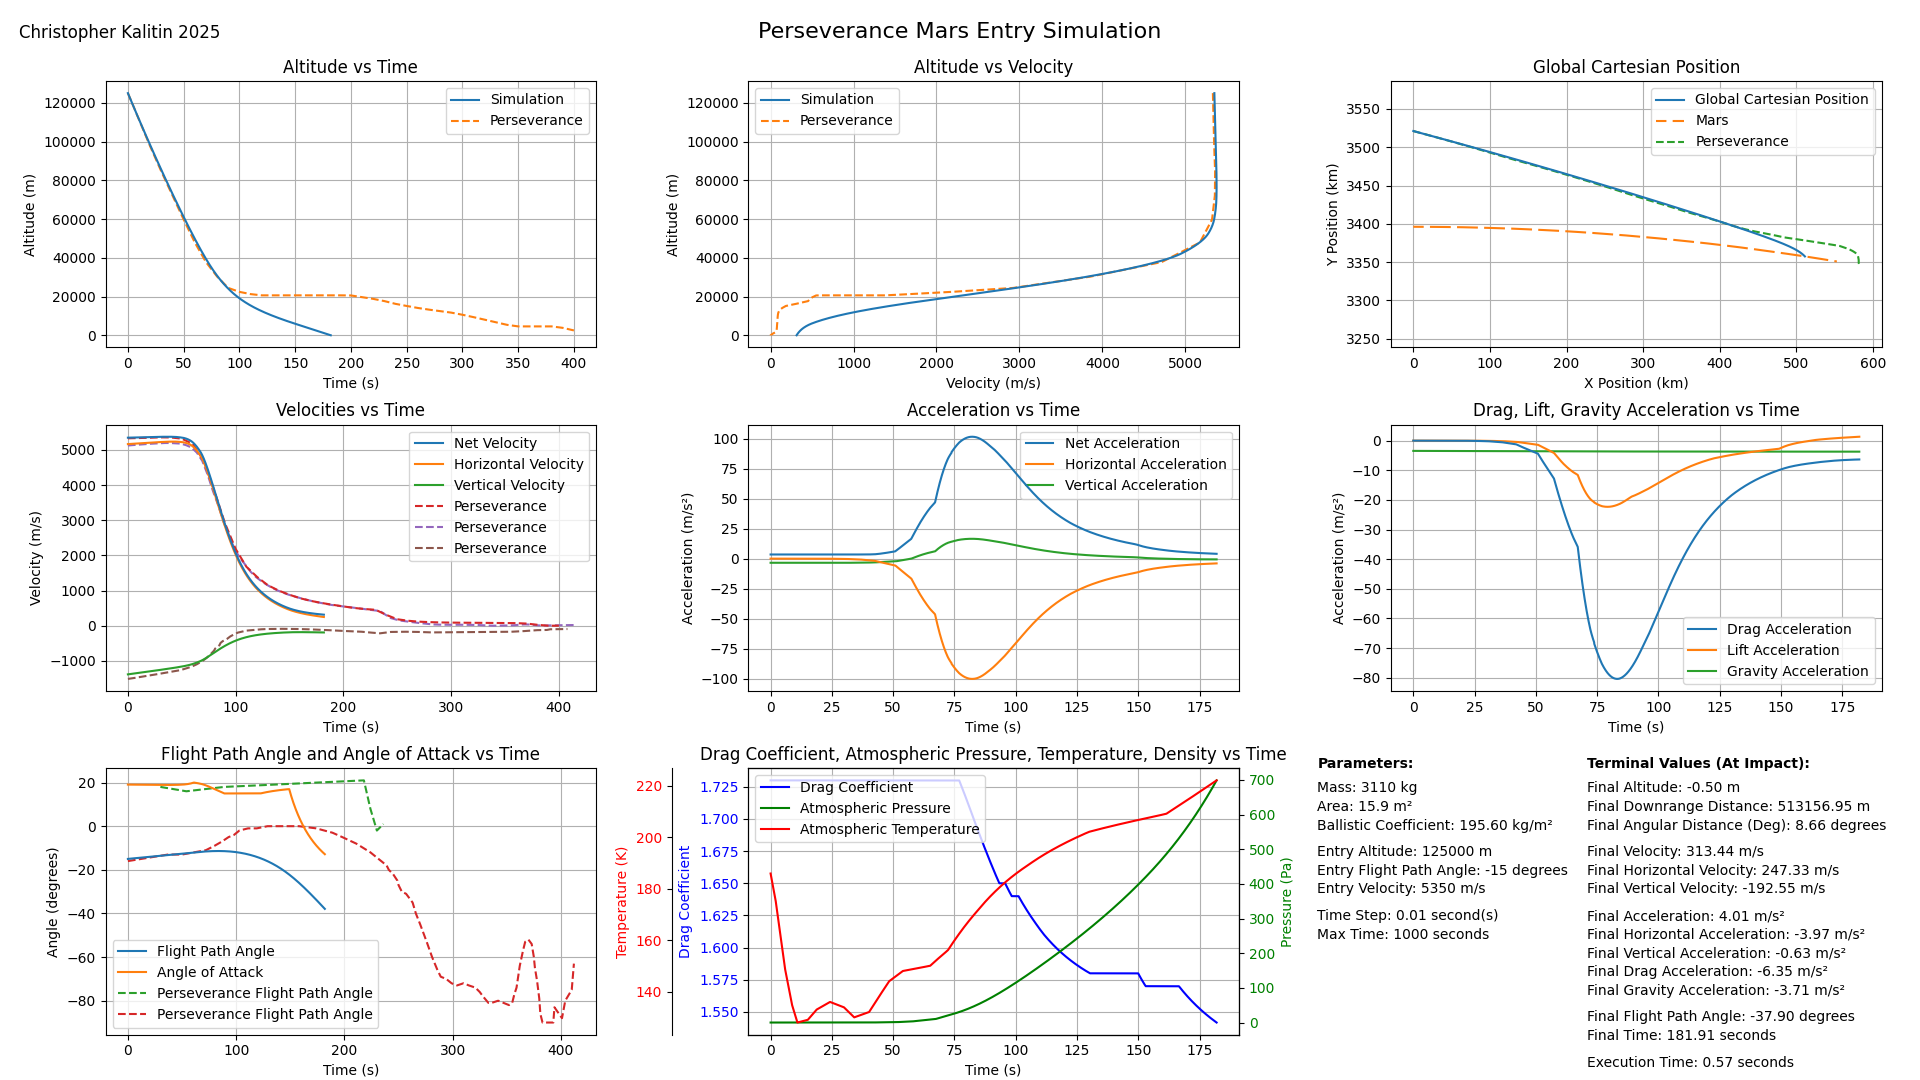
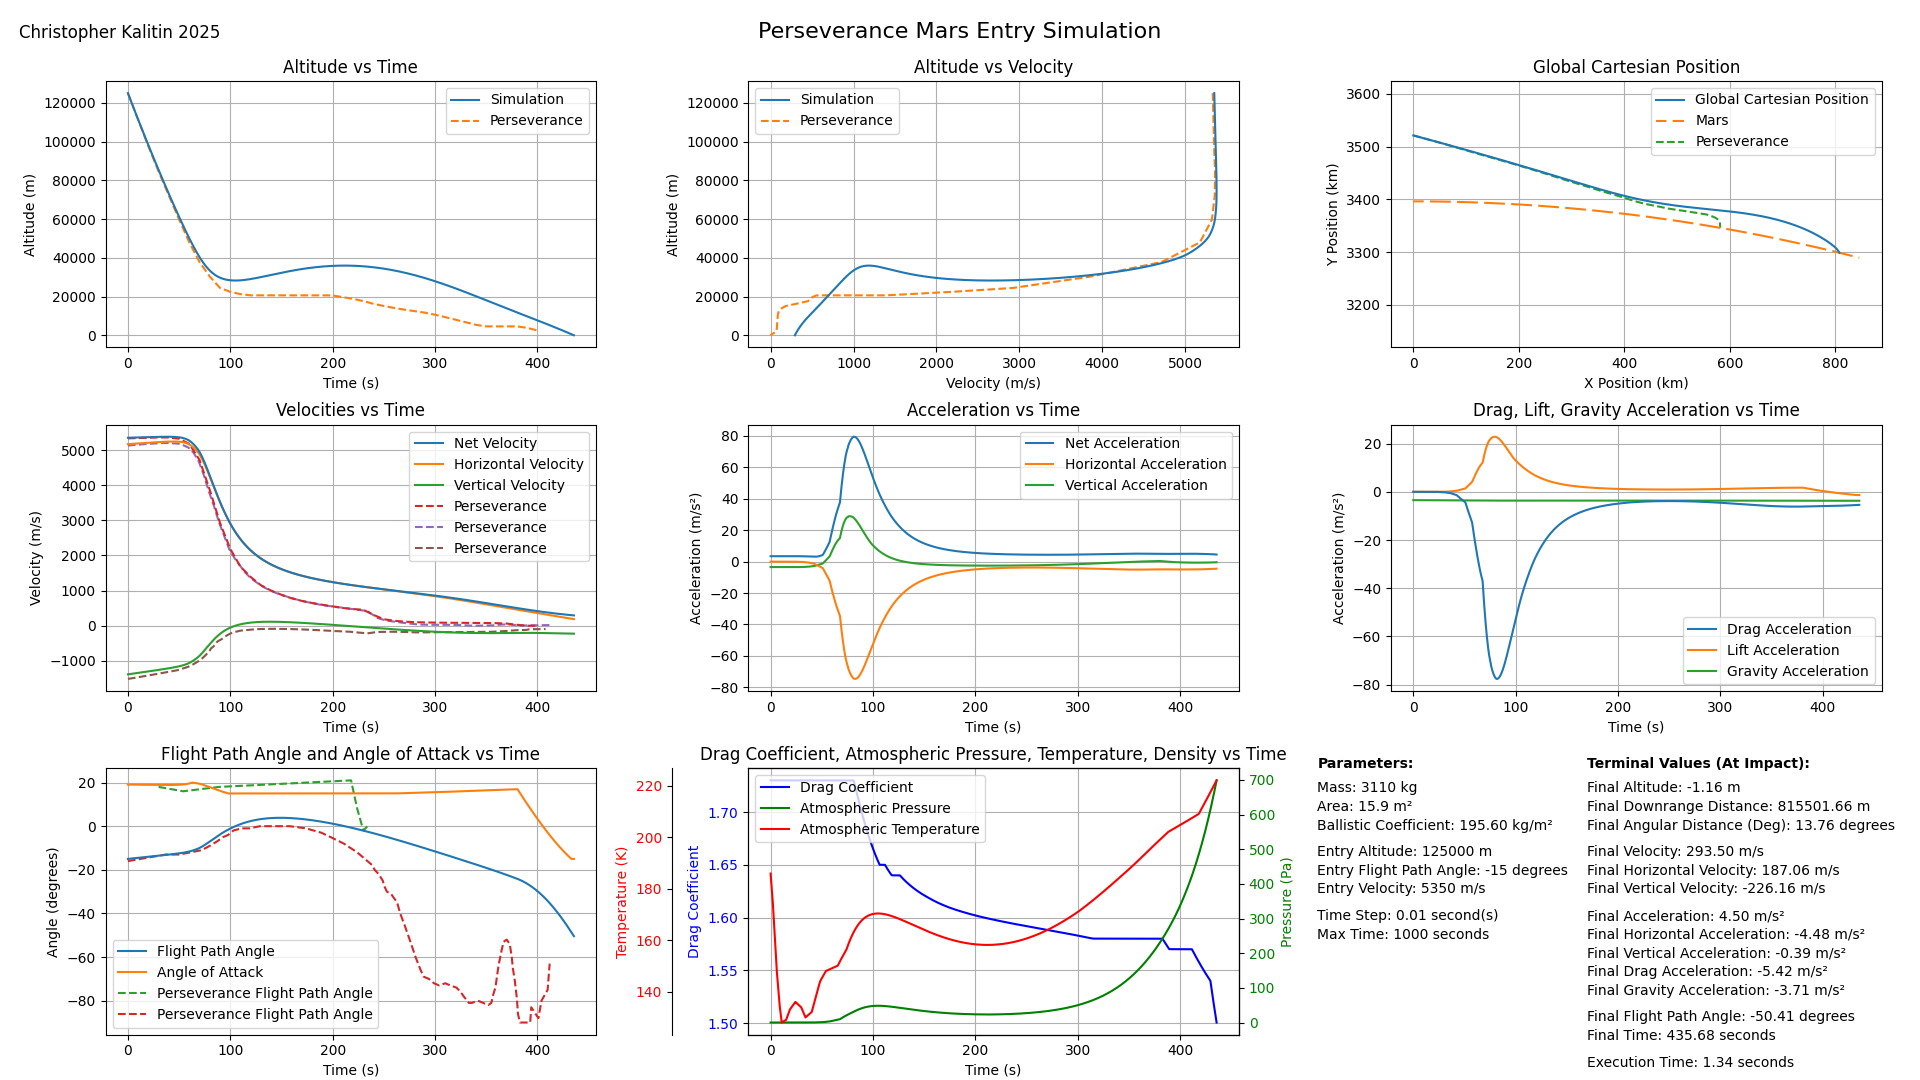
Forgot to make lift orthogonal to flight path angle
am retard

its always the little things!!

Also, lift being positive is right, it's in the positive direction, remember that the sign of acceleration is not relative to the sign of velocity, retard!!! I found one!!!

diff --git a/Project/sim_polar.py b/Project/sim_polar.py
@@ -99,8 +99,8 @@ def simulate(mass, area, entry_altitude, entry_flight_path_angle, entry_velocity
         a_lift = utils_sim.get_lift_acc(a_drag, aoa)
 
         # Update velocities
-        a_rad = a_grav + math.sin(math.radians(flight_path_angle)) * a_drag + math.sin(math.radians(flight_path_angle)) * a_lift
-        a_ang = math.cos(math.radians(flight_path_angle)) * a_drag + math.cos(math.radians(flight_path_angle)) * a_lift
+        a_rad = a_grav + math.sin(math.radians(flight_path_angle)) * a_drag + math.sin(math.radians(flight_path_angle + 90)) * a_lift
+        a_ang = math.cos(math.radians(flight_path_angle)) * a_drag + math.cos(math.radians(flight_path_angle + 90)) * a_lift
         a_net = math.sqrt(a_rad**2 + a_ang**2)
         
         vel_rad_m += a_rad * time_step

diff --git a/Project/historic_landers.py b/Project/historic_landers.py
@@ -175,11 +175,11 @@ alt_vs_downrange_to_global_cartesian(perseverance)
 # Velocity vs. AoA, interpolated
 curiosity_aoa = [
     (6000, 0),
-    (5600, 12),
-    (4800, 12),
-    (3000, 12),
-    (1200, 17),
-    (500, 10),
+    (5600, 0),
+    (4800, 20),
+    (3000, 25),
+    (1200, 25),
+    (500, 20),
     (0, -15)
 ]
 
@@ -187,7 +187,7 @@ curiosity_data, curiosity_params = sim_polar.simulate(
     mass=3300,
     area=15.9,
     entry_altitude=125000,
-    entry_flight_path_angle=-14, # Reality: -14
+    entry_flight_path_angle=-16, # Reality: -14
     entry_velocity=5700,
     aoa_function=curiosity_aoa,
     time_step=0.01,

diff --git a/Project/utils_sim.py b/Project/utils_sim.py
@@ -60,4 +60,4 @@ def get_drag_acc(mass, vel_net, area, atm_density):
 def get_lift_acc(drag_acc, aoa):
     # drag_acc = m/s^2, flight_path_angle = degrees
     ld = get_interpolated_lift_to_drag_ratio(aoa)
-    return drag_acc * ld if ld != 0 else 0
+    return -drag_acc * ld if ld != 0 else 0
